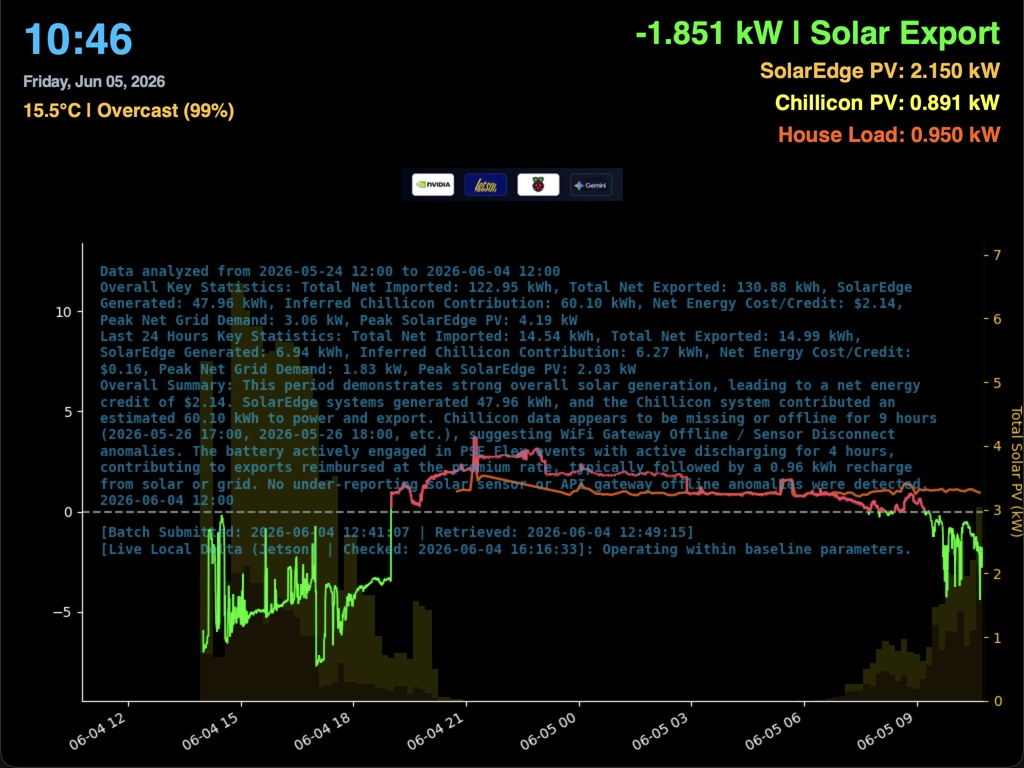
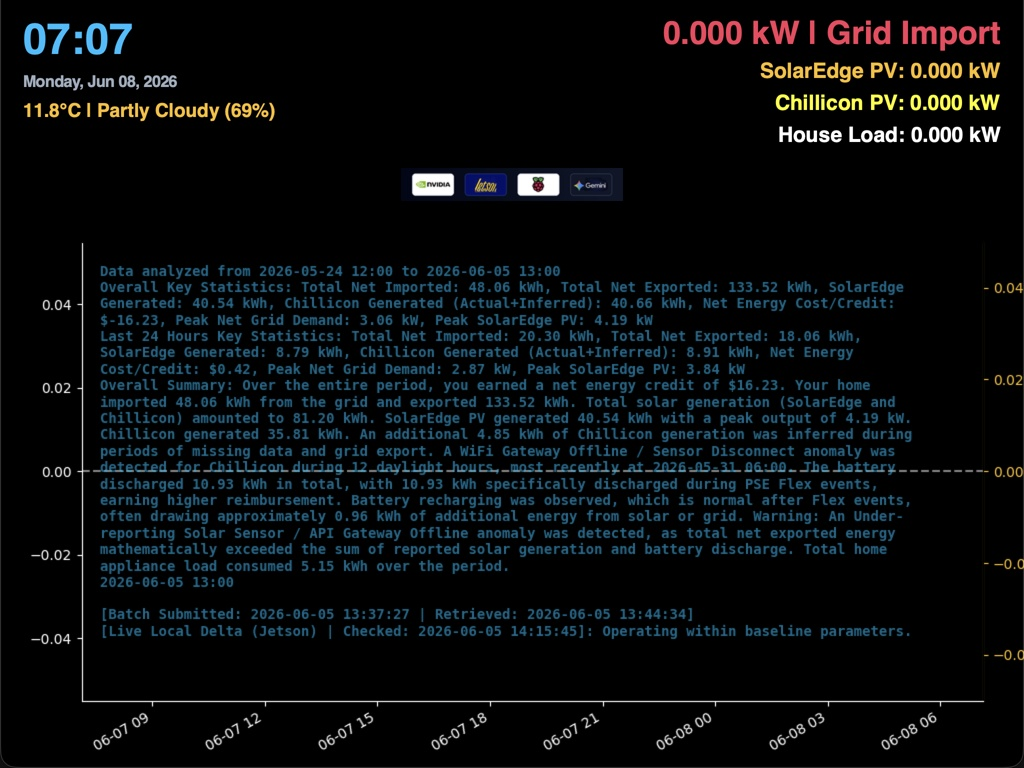
style: change appliance load line and text color to white

diff --git a/dashboard_modules/config.py b/dashboard_modules/config.py
@@ -34,7 +34,7 @@ DEFAULT_WEATHER_FALLBACK: Dict[str, float] = {
 IMPORT_COLOR: str = '#f43f5e'          # Modern rose/crimson red
 EXPORT_COLOR: str = '#00ff00'          # Classic neon green
 EXPECTED_SOLAR_COLOR: str = '#ffff00'  # Bright yellow for expected weather-modulated solar
-CONSUMPTION_COLOR: str = '#ff5e00'     # Neon orange for household consumption
+CONSUMPTION_COLOR: str = 'white'     # White for household consumption / appliance load
 
 # Slide Rotation Interval Settings (in milliseconds)
 SLIDE_1_DURATION_MS: int = 90000       # 1.5 minutes
